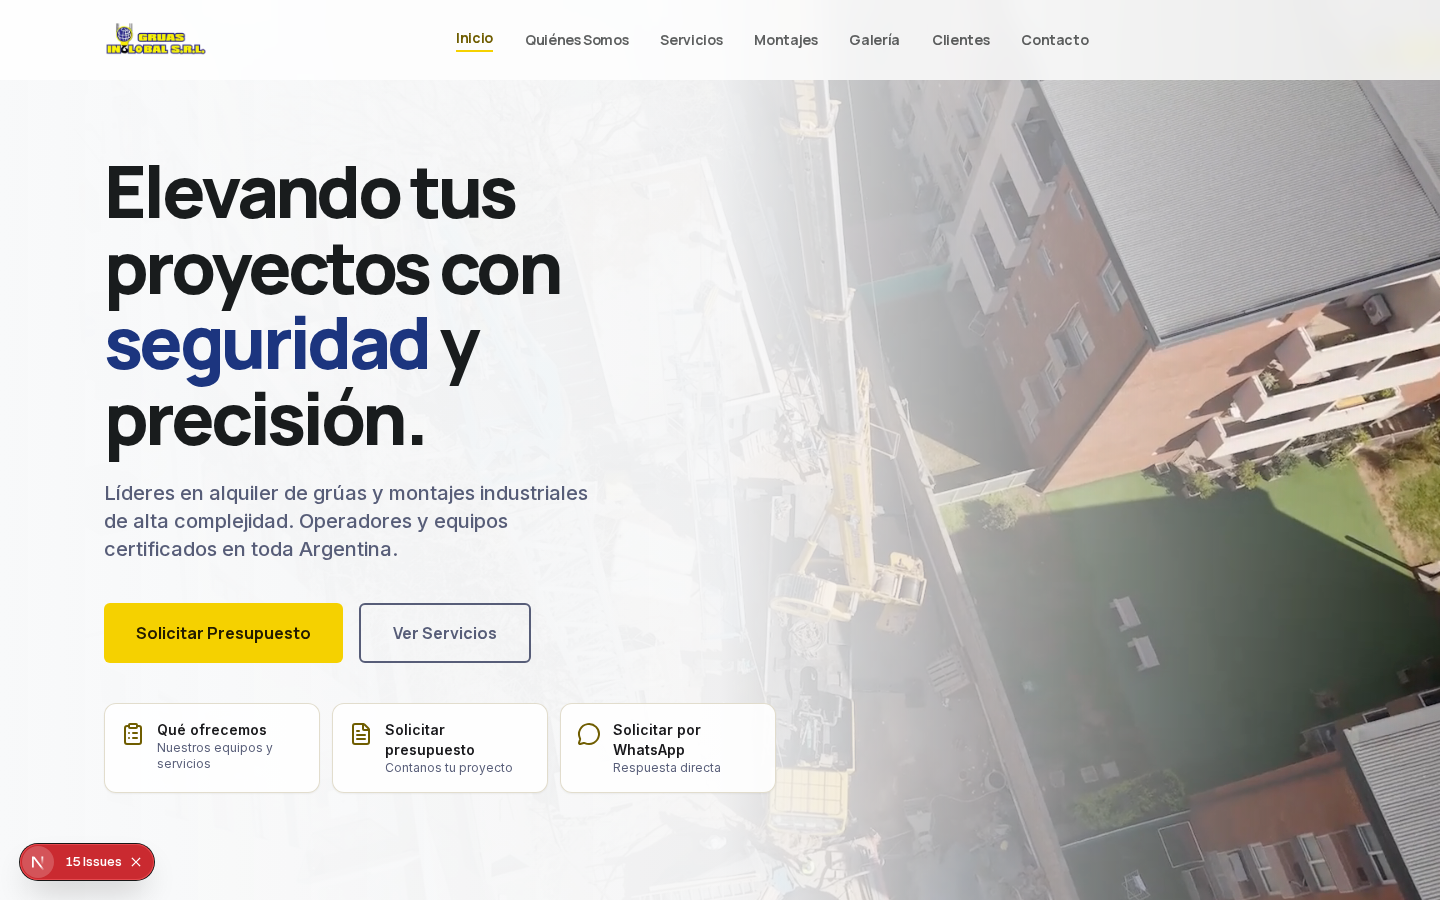
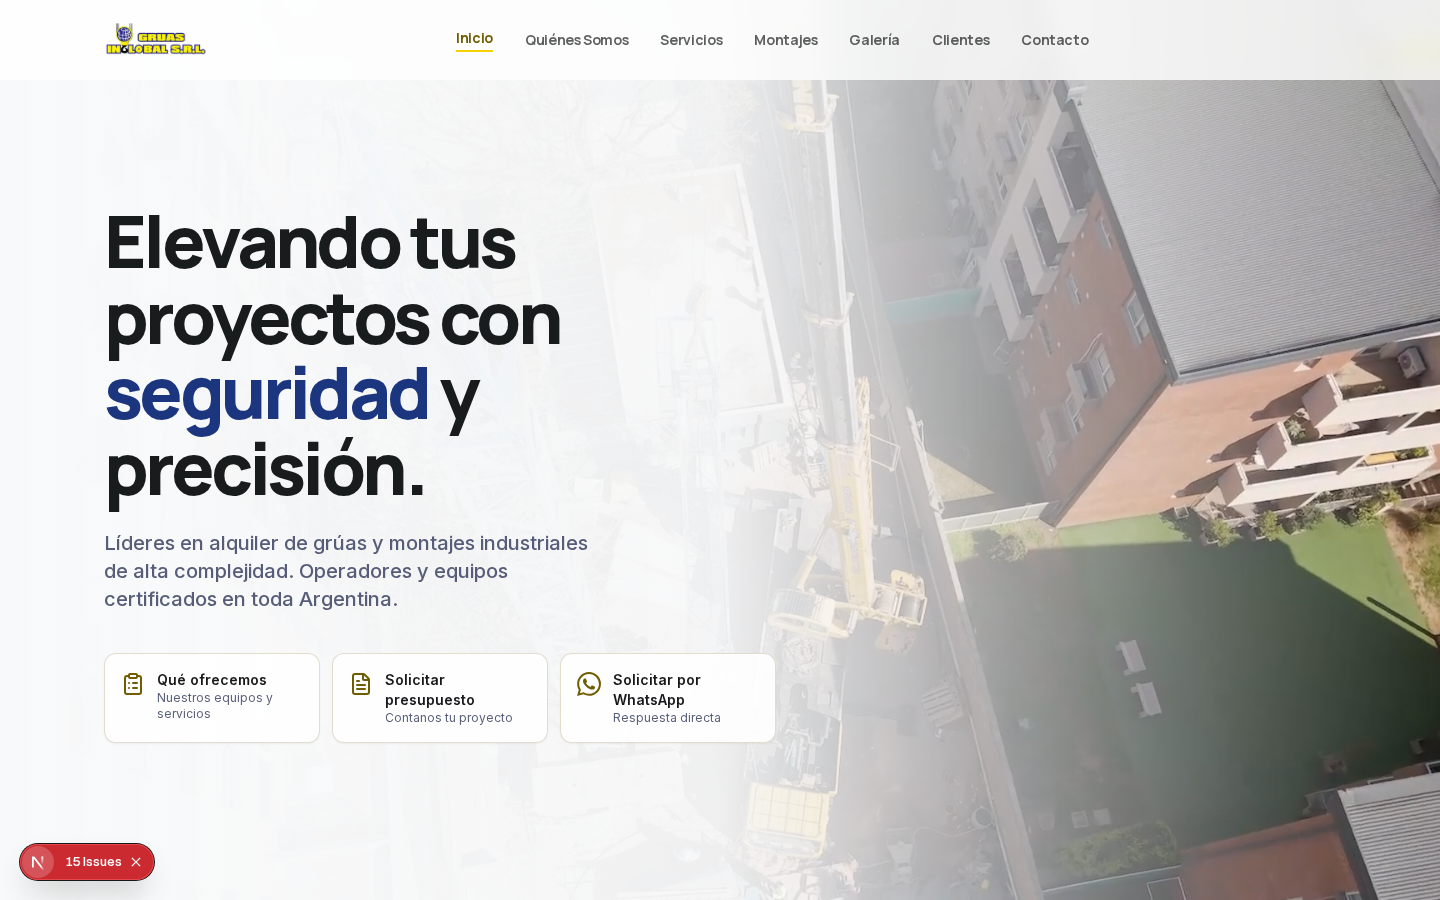
fix: icono real de WhatsApp en el recuadro del hero

diff --git a/app/page.tsx b/app/page.tsx
@@ -4,7 +4,8 @@ import Picture from '@/components/Picture'
 import HeroVideo from '@/components/HeroVideo'
 import LazyGoogleMap from '@/components/LazyGoogleMap'
 import ClientesCarousel from '@/components/ClientesCarousel'
-import { ClipboardList, FileText, MessageCircle } from 'lucide-react'
+import { ClipboardList, FileText } from 'lucide-react'
+import WhatsAppIcon from '@/components/WhatsAppIcon'
 import { getSiteSettings, getServicios, getClientes } from '@/lib/content'
 
 // El layout bento (cantidad de tiles y su span) queda fijo en código; src/alt/label
@@ -77,7 +78,7 @@ export default async function HomePage() {
   const heroQuickActions = [
     { title: (heroSettings.card1_title as string) || 'Qué ofrecemos', desc: (heroSettings.card1_desc as string) || 'Nuestros equipos y servicios', href: '/servicios', Icon: ClipboardList, external: false },
     { title: (heroSettings.card2_title as string) || 'Solicitar presupuesto', desc: (heroSettings.card2_desc as string) || 'Contanos tu proyecto', href: '/contacto', Icon: FileText, external: false },
-    { title: (heroSettings.card3_title as string) || 'Solicitar por WhatsApp', desc: (heroSettings.card3_desc as string) || 'Respuesta directa', href: heroWhatsapp, Icon: MessageCircle, external: true },
+    { title: (heroSettings.card3_title as string) || 'Solicitar por WhatsApp', desc: (heroSettings.card3_desc as string) || 'Respuesta directa', href: heroWhatsapp, Icon: WhatsAppIcon, external: true },
   ]
 
   // Stats

diff --git a/components/WhatsAppIcon.tsx b/components/WhatsAppIcon.tsx
@@ -1,0 +1,8 @@
+/** Logo de WhatsApp (lucide no trae marcas). Hereda color y tamaño por className. */
+export default function WhatsAppIcon({ className }: { className?: string }) {
+  return (
+    <svg viewBox="0 0 24 24" fill="currentColor" className={className} aria-hidden="true">
+      <path d="M17.472 14.382c-.297-.149-1.758-.867-2.03-.967-.273-.099-.471-.148-.67.15-.197.297-.767.966-.94 1.164-.173.199-.347.223-.644.075-.297-.15-1.255-.463-2.39-1.475-.883-.788-1.48-1.761-1.653-2.059-.173-.297-.018-.458.13-.606.134-.133.298-.347.446-.52.149-.174.198-.298.298-.497.099-.198.05-.371-.025-.52-.075-.149-.669-1.612-.916-2.207-.242-.579-.487-.5-.669-.51-.173-.008-.371-.01-.57-.01-.198 0-.52.074-.792.372-.272.297-1.04 1.016-1.04 2.479 0 1.462 1.065 2.875 1.213 3.074.149.198 2.096 3.2 5.077 4.487.709.306 1.262.489 1.694.625.712.227 1.36.195 1.871.118.571-.085 1.758-.719 2.006-1.413.248-.694.248-1.289.173-1.413-.074-.124-.272-.198-.57-.347m-5.421 7.403h-.004a9.87 9.87 0 01-5.031-1.378l-.361-.214-3.741.982.998-3.648-.235-.374a9.86 9.86 0 01-1.51-5.26c.001-5.45 4.436-9.884 9.888-9.884 2.64 0 5.122 1.03 6.988 2.898a9.825 9.825 0 012.893 6.994c-.003 5.45-4.437 9.884-9.885 9.884m8.413-18.297A11.815 11.815 0 0012.05 0C5.495 0 .16 5.335.157 11.892c0 2.096.547 4.142 1.588 5.945L.057 24l6.305-1.654a11.882 11.882 0 005.683 1.448h.005c6.554 0 11.89-5.335 11.893-11.893a11.821 11.821 0 00-3.48-8.413z" />
+    </svg>
+  )
+}
